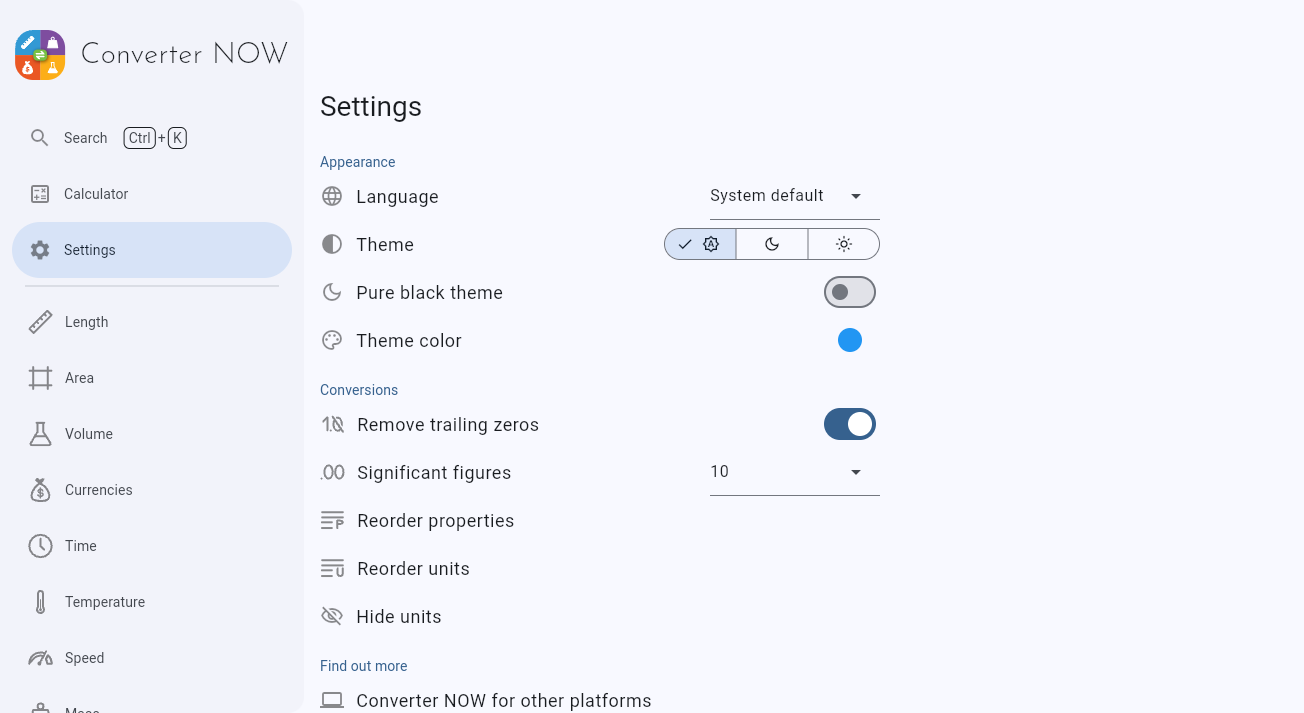
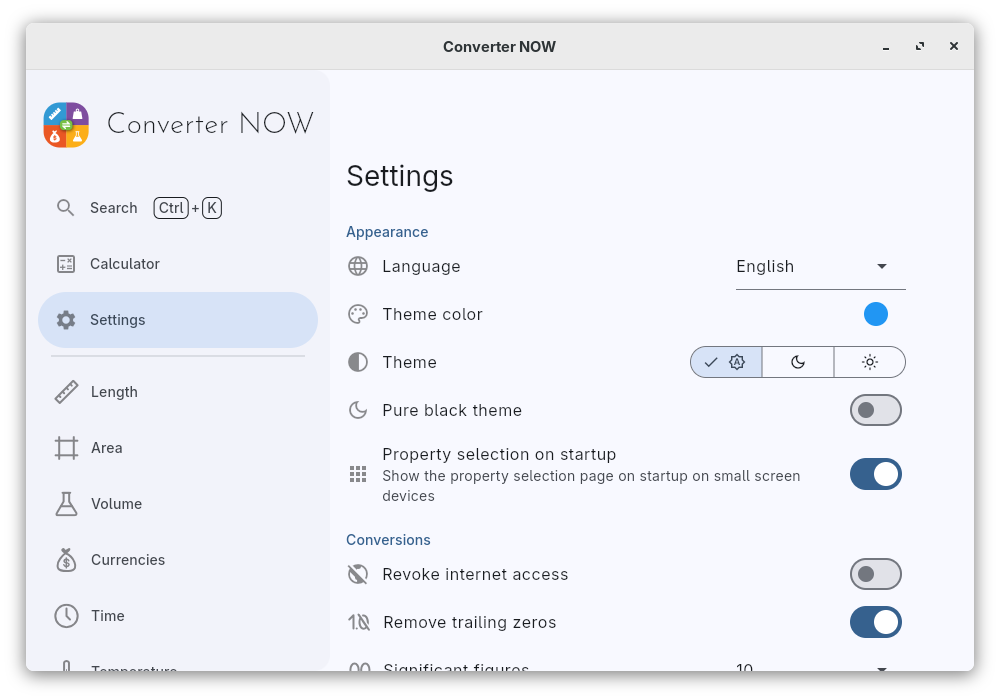
fix: make the app compliant to all the flathub quality requirements

diff --git a/lib/pages/initial_page.dart b/lib/pages/initial_page.dart
@@ -24,8 +24,8 @@ class InitialPage extends ConsumerWidget {
               children: [
                 const SvgPicture(
                   AssetBytesLoader('assets/app_icons_opti/logo.svg.vec'),
-                  width: 36,
-                  height: 36,
+                  width: 39,
+                  height: 39,
                 ),
                 Text(AppLocalizations.of(context)!.appName),
               ],

diff --git a/lib/app_router.dart b/lib/app_router.dart
@@ -118,7 +118,7 @@ final routerProvider = Provider<GoRouter>(
                   applicationName: AppLocalizations.of(context)!.appName,
                   applicationIcon: const SvgPicture(
                     AssetBytesLoader('assets/app_icons_opti/logo.svg.vec'),
-                    width: 50,
+                    width: 54,
                   ),
                 ),
               ),

diff --git a/lib/utils/utils_widgets.dart b/lib/utils/utils_widgets.dart
@@ -407,7 +407,7 @@ class SplashScreenWidget extends StatelessWidget {
       body: Center(
         child: SvgPicture(
           AssetBytesLoader('assets/app_icons_opti/logo.svg.vec'),
-          width: 150,
+          width: 160,
         ),
       ),
     );

diff --git a/linux/flutter/generated_plugin_registrant.cc b/linux/flutter/generated_plugin_registrant.cc
@@ -7,6 +7,7 @@
 #include "generated_plugin_registrant.h"
 
 #include <dynamic_color/dynamic_color_plugin.h>
+#include <handy_window/handy_window_plugin.h>
 #include <url_launcher_linux/url_launcher_plugin.h>
 #include <window_size/window_size_plugin.h>
 
@@ -14,6 +15,9 @@ void fl_register_plugins(FlPluginRegistry* registry) {
   g_autoptr(FlPluginRegistrar) dynamic_color_registrar =
       fl_plugin_registry_get_registrar_for_plugin(registry, "DynamicColorPlugin");
   dynamic_color_plugin_register_with_registrar(dynamic_color_registrar);
+  g_autoptr(FlPluginRegistrar) handy_window_registrar =
+      fl_plugin_registry_get_registrar_for_plugin(registry, "HandyWindowPlugin");
+  handy_window_plugin_register_with_registrar(handy_window_registrar);
   g_autoptr(FlPluginRegistrar) url_launcher_linux_registrar =
       fl_plugin_registry_get_registrar_for_plugin(registry, "UrlLauncherPlugin");
   url_launcher_plugin_register_with_registrar(url_launcher_linux_registrar);

diff --git a/linux/runner/my_application.cc b/linux/runner/my_application.cc
@@ -64,16 +64,17 @@ static void my_application_activate(GApplication* application) {
   // for transparent.
   gdk_rgba_parse(&background_color, "#000000");
   fl_view_set_background_color(view, &background_color);
-  gtk_widget_show(GTK_WIDGET(view));
   gtk_container_add(GTK_CONTAINER(window), GTK_WIDGET(view));
+
+  // Moved these 2 lines as requested by the `handy_window` package
+  fl_register_plugins(FL_PLUGIN_REGISTRY(view));
+  gtk_widget_show(GTK_WIDGET(view));
 
   // Show the window when Flutter renders.
   // Requires the view to be realized so we can start rendering.
   g_signal_connect_swapped(view, "first-frame", G_CALLBACK(first_frame_cb),
                            self);
   gtk_widget_realize(GTK_WIDGET(view));
-
-  fl_register_plugins(FL_PLUGIN_REGISTRY(view));
 
   gtk_widget_grab_focus(GTK_WIDGET(view));
 }
